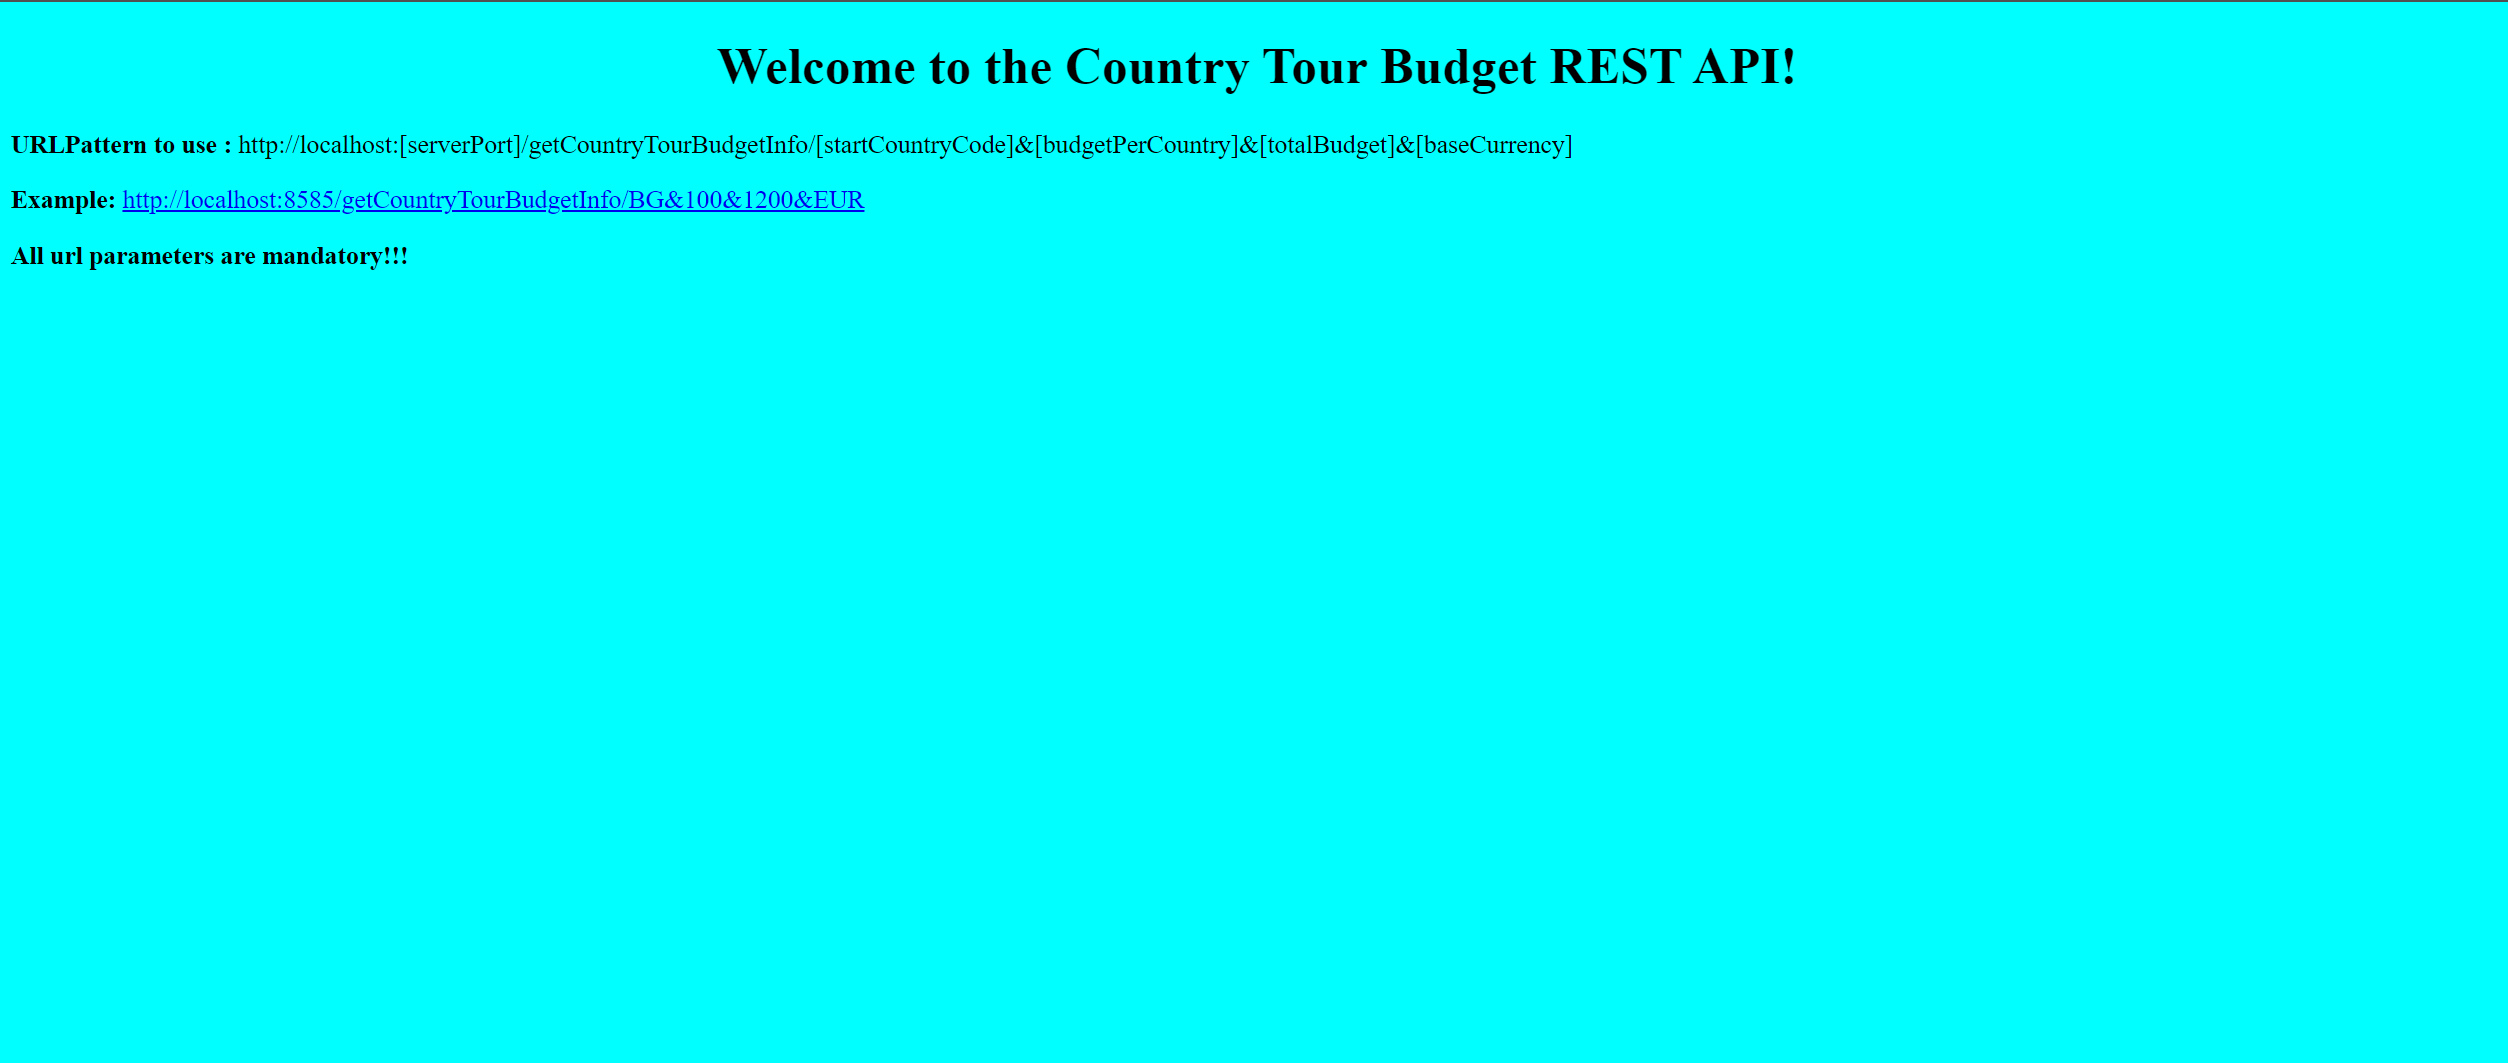
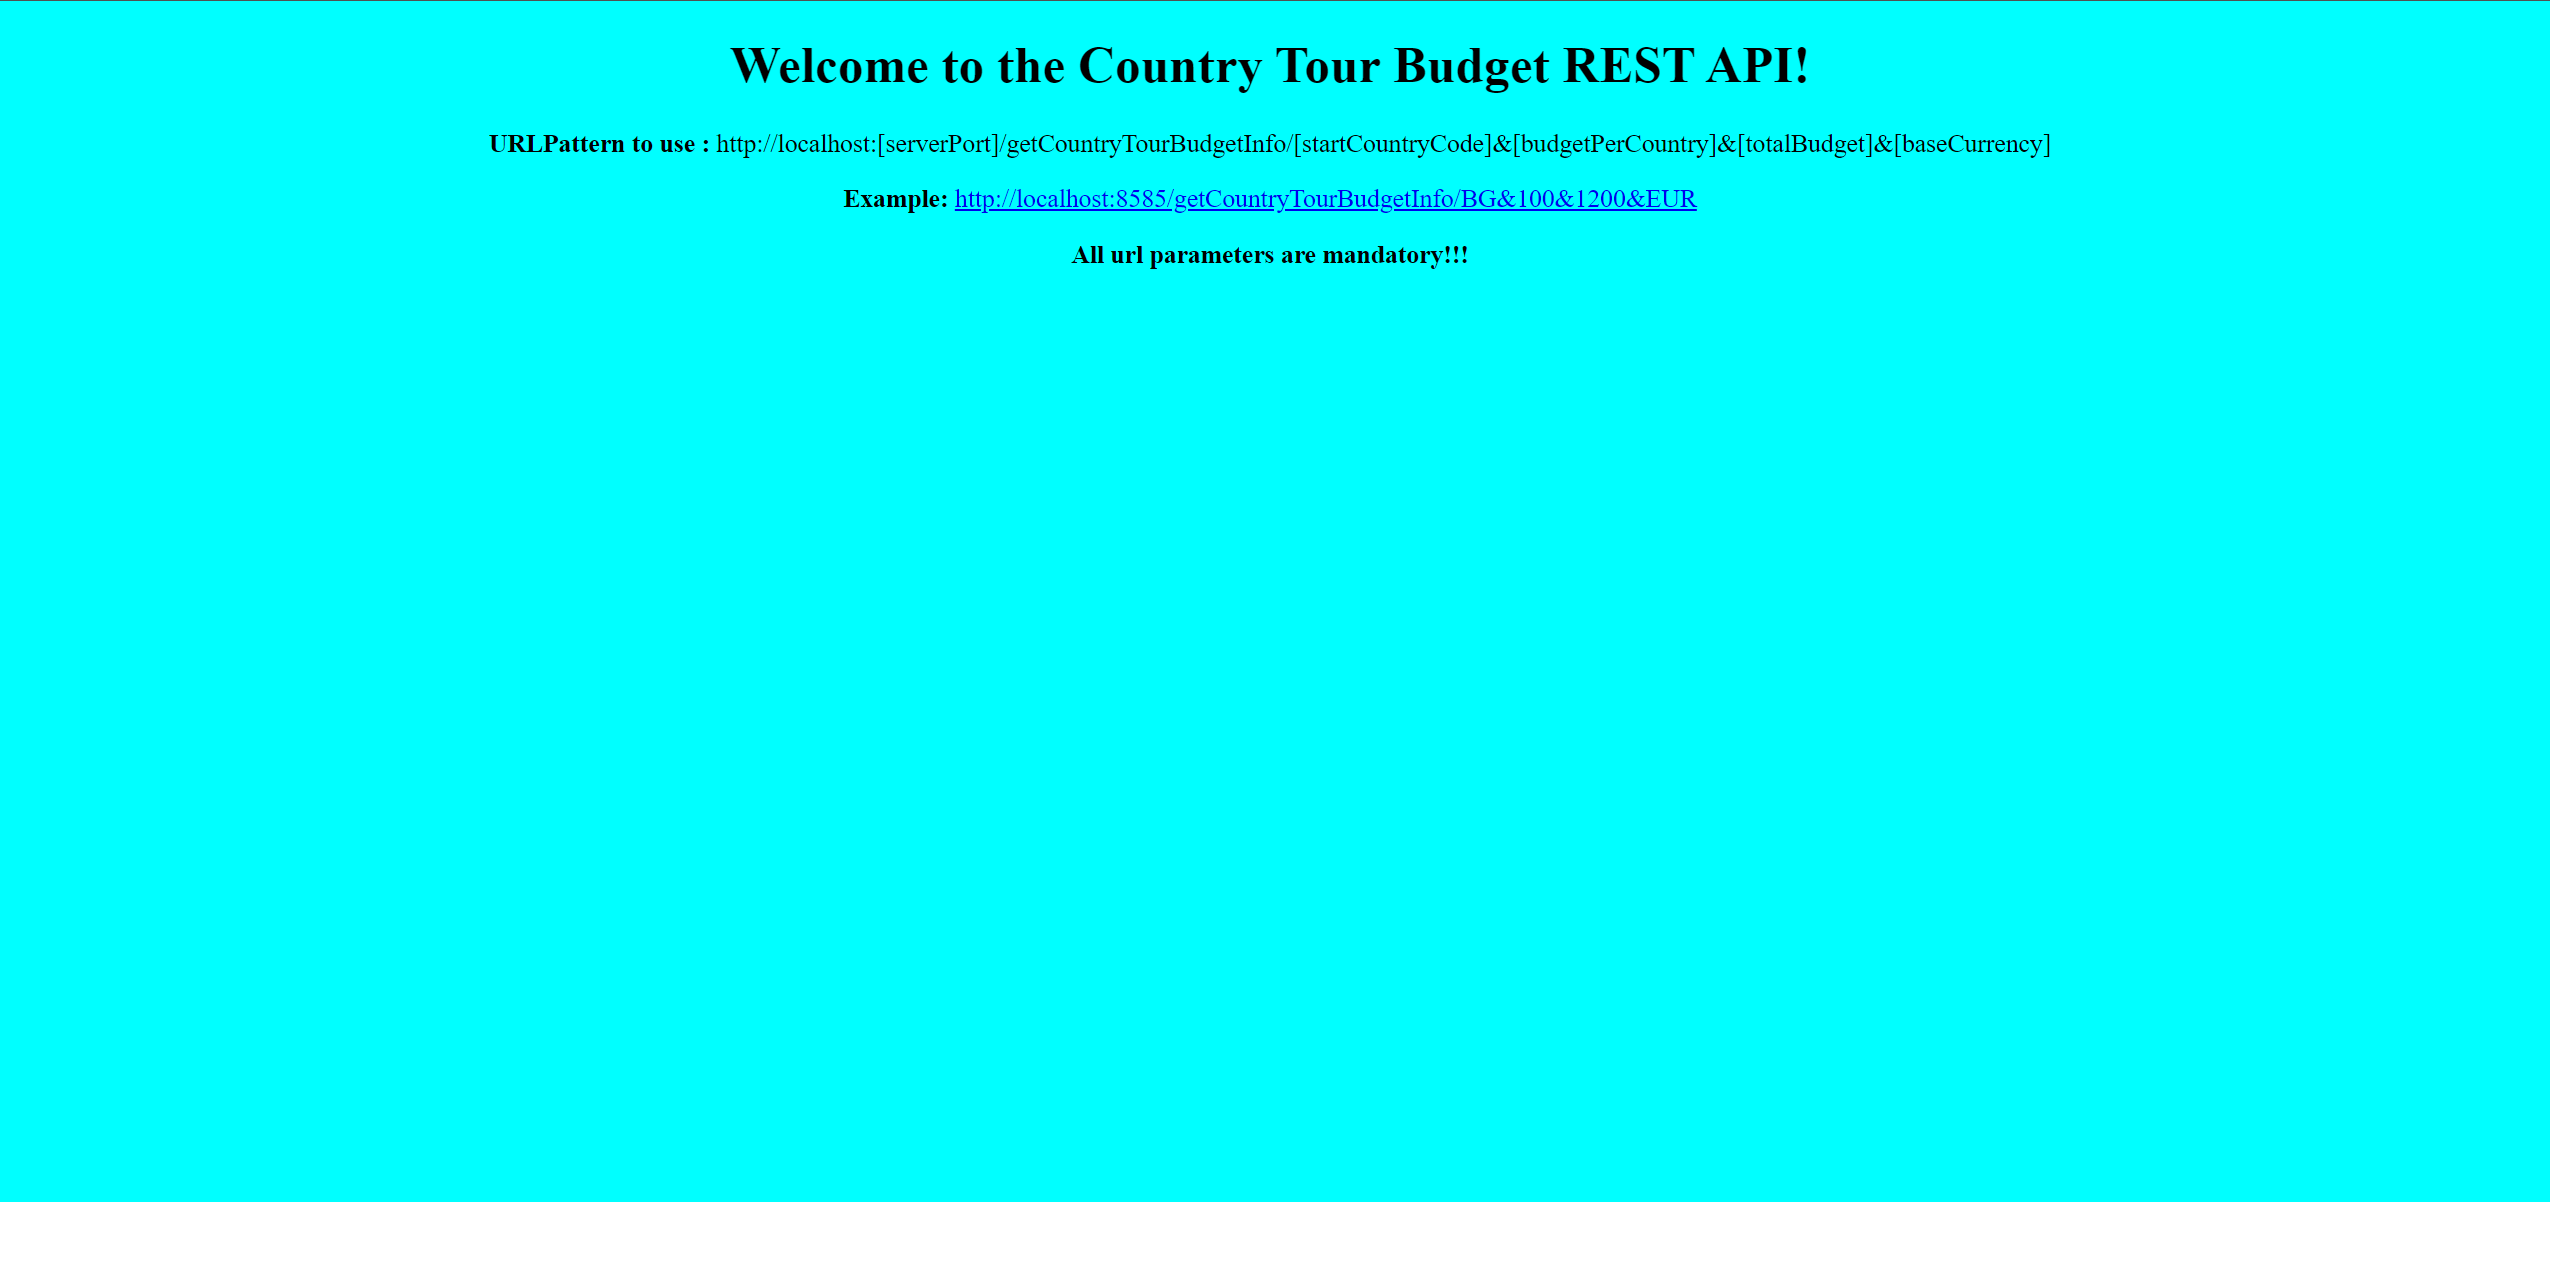
feat: update code (#4)

Changed region(s): [[0.0, 0.031, 0.8086, 0.2484], [0.0, 0.9313, 1.0, 1.0]]

diff --git a/country-tour/src/main/resources/templates/index.html b/country-tour/src/main/resources/templates/index.html
@@ -6,15 +6,15 @@
 </head>
 <body style="background-color: aqua; height: 100%">
 <h1 align="center">Welcome to the Country Tour Budget REST API!</h1>
-<p>
+<p align="center">
   <strong>URLPattern to use :</strong> http://localhost:[serverPort]/getCountryTourBudgetInfo/[startCountryCode]&amp[budgetPerCountry]&amp[totalBudget]&amp[baseCurrency]
 </p>
-<p>
+<p align="center">
     <strong>Example:</strong> <a href="http://localhost:8585/getCountryTourBudgetInfo/BG&100&1200&EUR">
     http://localhost:8585/getCountryTourBudgetInfo/BG&100&1200&EUR
 </a>
 </p>
-<p>
+<p align="center">
     <strong>All url parameters are mandatory!!!</strong>
 </p>
 </body>

diff --git a/country-tour/src/main/java/com/dido/springboot/demo/countrytourapp/rest/CountryTourRestController.java b/country-tour/src/main/java/com/dido/springboot/demo/countrytourapp/rest/CountryTourRestController.java
@@ -23,7 +23,7 @@ public class CountryTourRestController {
 
     private final Logger logger = Logger.getLogger(getClass().getName());
 
-    private static final String countryCodePrefix = "alpha/";
+    public static final String countryCodePrefix = "alpha/";
 
     private final CountryRateService crService;
 
@@ -85,50 +85,9 @@ public class CountryTourRestController {
         logger.info(String.format("%s%s%s", getClass(), ".getCountryBudgetInfo():property currency", currency));
         Map<String, CountryBudgetInfo> countryTourBudget = new HashMap<>();
         countryTourBudget.put("countryTourBudget",
-                calculateCountryBudgetInfo(budgetPerCountry, totalBudget, countryCode, currency));
+                crService.calculateCountryBudgetInfo(budgetPerCountry, totalBudget, countryCode, currency));
 
         return countryTourBudget;
 
-    }
-
-    private CountryBudgetInfo calculateCountryBudgetInfo(String budgetPerCountry, String totalBudget,
-                                                         String countryCode, String currency) {
-        CountryBudgetInfo budgetInfo = new CountryBudgetInfo();
-
-        if (currency == null || currency.length() < 3) {
-            logger.finer(String.format("%s%s%s%s",getClass(), ".calculateCountryBudgetInfo(): Provided base currency code is invalid ", currency
-                    , ",use default base currency EUR"));
-            currency = "EUR";
-        }
-
-        Map<String, CurrencyRate> currencyRateMap = crService.getNeighboursMap(countryCodePrefix + countryCode, currency);
-        budgetInfo.setCountryRates(currencyRateMap);
-        double numberOfToursWithLeftOver = (Double.parseDouble(totalBudget)
-                / (Double.parseDouble(budgetPerCountry) * currencyRateMap.size()));
-        int numberOfTours = (int) (Double.parseDouble(totalBudget)
-                / (Double.parseDouble(budgetPerCountry) * currencyRateMap.size()));
-        budgetInfo.setNumberOfTours(numberOfTours);
-        Double leftOver = (double) Math.round((numberOfToursWithLeftOver - numberOfTours)
-                * Double.parseDouble(budgetPerCountry) * currencyRateMap.size() * 100.0) / 100.0;
-
-        budgetInfo.setLeftOverBudget(leftOver + " " + currency);
-        Map<String, String> convertedBudgets = new HashMap<>();
-
-        for (Entry<String, CurrencyRate> entry : currencyRateMap.entrySet()) {
-            CurrencyRate value = entry.getValue();
-            Double rate = value.getRates().get(value.getTarget());
-
-            Double convertedBudget = (rate * Double.parseDouble(budgetPerCountry) * numberOfTours);
-            if (rate == 1.00D) {
-                convertedBudgets.put(entry.getKey(), String.format("%.2f", convertedBudget) + " " + currency);
-            } else {
-                String realCurrency = value.getTarget();
-                convertedBudgets.put(entry.getKey(), String.format("%.2f", convertedBudget) + " " + realCurrency);
-            }
-        }
-
-        budgetInfo.setConvertedCountryTourBudgets(convertedBudgets);
-
-        return budgetInfo;
     }
 }

diff --git a/country-tour/src/main/java/com/dido/springboot/demo/countrytourapp/services/CountryRateServiceImpl.java b/country-tour/src/main/java/com/dido/springboot/demo/countrytourapp/services/CountryRateServiceImpl.java
@@ -3,7 +3,9 @@ package com.dido.springboot.demo.countrytourapp.services;
 import java.util.*;
 import java.util.logging.Logger;
 
+import com.dido.springboot.demo.countrytourapp.entity.CountryBudgetInfo;
 import com.dido.springboot.demo.countrytourapp.entity.Currency;
+import com.dido.springboot.demo.countrytourapp.rest.CountryTourRestController;
 import org.springframework.beans.factory.annotation.Value;
 import org.springframework.core.ParameterizedTypeReference;
 import org.springframework.http.HttpMethod;
@@ -153,6 +155,47 @@ public class CountryRateServiceImpl implements CountryRateService {
 		CurrencyRate currencyRate = responseEntity.getBody();
 		Objects.requireNonNull(currencyRate).setTarget(targetCurrency);
 		return currencyRate;
+	}
+
+	public CountryBudgetInfo calculateCountryBudgetInfo(String budgetPerCountry, String totalBudget,
+														 String countryCode, String currency) {
+		CountryBudgetInfo budgetInfo = new CountryBudgetInfo();
+
+		if (currency == null || currency.length() < 3) {
+			logger.finer(String.format("%s%s%s%s",getClass(), ".calculateCountryBudgetInfo(): Provided base currency code is invalid ", currency
+					, ",use default base currency EUR"));
+			currency = "EUR";
+		}
+
+		Map<String, CurrencyRate> currencyRateMap = getNeighboursMap(CountryTourRestController.countryCodePrefix + countryCode, currency);
+		budgetInfo.setCountryRates(currencyRateMap);
+		double numberOfToursWithLeftOver = (Double.parseDouble(totalBudget)
+				/ (Double.parseDouble(budgetPerCountry) * currencyRateMap.size()));
+		int numberOfTours = (int) (Double.parseDouble(totalBudget)
+				/ (Double.parseDouble(budgetPerCountry) * currencyRateMap.size()));
+		budgetInfo.setNumberOfTours(numberOfTours);
+		Double leftOver = (double) Math.round((numberOfToursWithLeftOver - numberOfTours)
+				* Double.parseDouble(budgetPerCountry) * currencyRateMap.size() * 100.0) / 100.0;
+
+		budgetInfo.setLeftOverBudget(leftOver + " " + currency);
+		Map<String, String> convertedBudgets = new HashMap<>();
+
+		for (Map.Entry<String, CurrencyRate> entry : currencyRateMap.entrySet()) {
+			CurrencyRate value = entry.getValue();
+			Double rate = value.getRates().get(value.getTarget());
+
+			Double convertedBudget = (rate * Double.parseDouble(budgetPerCountry));
+			if (rate == 1.00D) {
+				convertedBudgets.put(entry.getKey(), String.format("%.2f", convertedBudget) + " " + currency);
+			} else {
+				String realCurrency = value.getTarget();
+				convertedBudgets.put(entry.getKey(), String.format("%.2f", convertedBudget) + " " + realCurrency);
+			}
+		}
+
+		budgetInfo.setConvertedCountryTourBudgets(convertedBudgets);
+
+		return budgetInfo;
 	}
 
 }

diff --git a/country-tour/src/main/java/com/dido/springboot/demo/countrytourapp/services/CountryRateService.java b/country-tour/src/main/java/com/dido/springboot/demo/countrytourapp/services/CountryRateService.java
@@ -4,13 +4,16 @@ import java.util.List;
 import java.util.Map;
 
 import com.dido.springboot.demo.countrytourapp.entity.Country;
+import com.dido.springboot.demo.countrytourapp.entity.CountryBudgetInfo;
 import com.dido.springboot.demo.countrytourapp.entity.CurrencyRate;
 
 public interface CountryRateService {
 	
-	public List<Country> loadCountries(String code);
-	public Country loadCountry(String countryCode);
-	public List<Country> getNeighbours(String countryCodes);
-	public Map<String,CurrencyRate> getNeighboursMap(String countryCode, String currencyCode);
-	public CurrencyRate getCountryRates(String currencyCode,String targetCurrency);
+	List<Country> loadCountries(String code);
+	Country loadCountry(String countryCode);
+	List<Country> getNeighbours(String countryCodes);
+	Map<String,CurrencyRate> getNeighboursMap(String countryCode, String currencyCode);
+	CurrencyRate getCountryRates(String currencyCode,String targetCurrency);
+
+	CountryBudgetInfo calculateCountryBudgetInfo(String budgetPerCountry, String totalBudget, String countryCode, String currency);
 }
